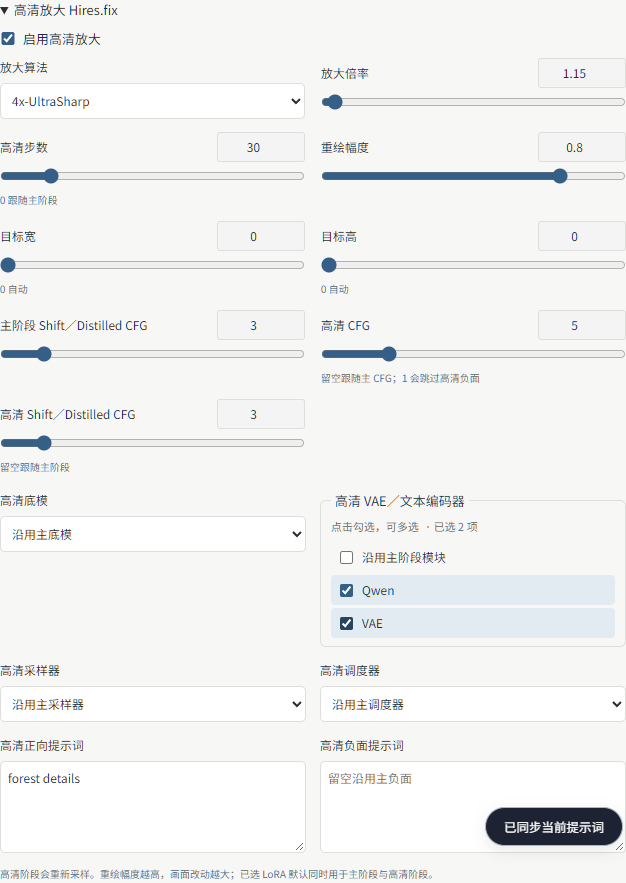
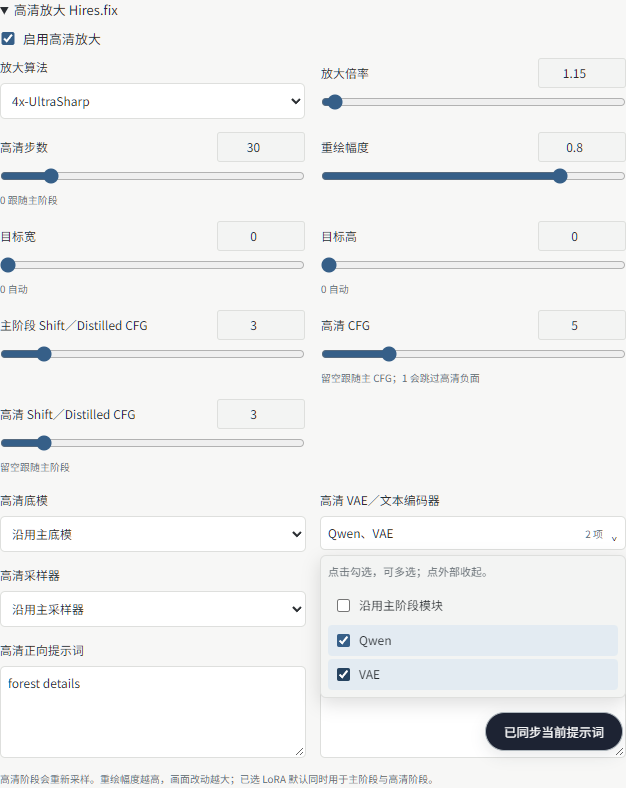
Release 0.3.4: custom model discovery and compact hires controls

diff --git a/CHANGELOG.md b/CHANGELOG.md
@@ -1,5 +1,12 @@
 # 更新记录
 
+## 0.3.4 · 2026-11-11 · 自定义 AI 接入与高清选择修复
+
+- 自定义接口新增「获取模型」，根据当前填写的接口、协议与 Key 读取模型清单。选词与视觉模型可下拉选择、输入筛选，也保留手动填写。
+- 获取模型与连接测试无需先保存；状态、失败原因和完成反馈显示在操作按钮旁。保存后保持配置面板展开，收起由用户决定。
+- 按 OpenCode 官方要求，使用软件自身名称与每个会话稳定的 `x-opencode-session`，主请求、工具及视觉请求保持关联；清空对话生成新标识，连接测试独立。Go 面向编程 Agent，使用范围以提供方当前规则和账户权限为准。
+- 高清 VAE／文本编码器改为紧凑、可收起的多选控件，与高清底模对齐；直接勾选多项无需 Ctrl，摘要显示已选模块，长名称可查看完整提示。
+
 ## 0.3.3 · 2026年11月11日
 
 - 选词规范与生图解耦：AI 选词里的 Anima、MOSS、NAI 等只负责提示词表达，不拦截其他实际生图后端，不自动切换后端、清空 LoRA 或更换工作流挂载方式。

diff --git a/README.md b/README.md
@@ -12,7 +12,11 @@
 
 用中文描述画面，让**内置 AI**结合本地标签、角色配方与绘图模型 Skill 整理提示词；也可以自己选词、调整权重、管理 LoRA，再连接本机 NeoForge、ComfyUI 或已配置的 NovelAI 服务生图。
 
-当前版本 **0.3.3**。版本号在软件的设置页面查看。本仓库提供安装包、使用手册、模型 Skill 和发布记录。
+当前版本 **0.3.4**。版本号在软件的设置页面查看。本仓库提供安装包、使用手册、模型 Skill 和发布记录。
+
+## 0.3.4 自定义 AI 接入修复
+
+自定义接口支持一键获取和筛选模型，测试直接使用尚未保存的表单，保存后保持展开。修复 OpenCode 会话路由请求头，高清底模与模块选择改为对齐、可收起的布局。具体操作见[内置 AI 指南](docs/BUILT_IN_AI.md)。
 
 ## 0.3.3 独立生图与预览修复
 

diff --git a/docs/MODELS_AND_GENERATION.md b/docs/MODELS_AND_GENERATION.md
@@ -105,3 +105,7 @@ CFG=1 时 Neo 会跳过该阶段负面提示词。重绘幅度越高，重绘改
 以下是使用本机 Neo、现有 Anima 权重、LoRA 和 4x-UltraSharp 的中立风景实测。PNG 参数确认主图 384×384、高清倍率 1.25、高清 CFG 5.5、Shift 3、12 步及 LoRA 哈希；Neo 按其尺寸对齐规则实际输出 512×512。
 
 ![本机 Neo 高清双阶段实测](../assets/screenshots/neo-hires-forest.png)
+
+## 高清模块的紧凑多选
+
+高清底模与 VAE／文本编码器并排显示。点击模块摘要展开勾选，支持直接多选；「沿用主阶段模块」与独立模块互斥。点击外部或按 Escape 收起，已选结果保留。较长名称在摘要中省略，鼠标停留可查看完整名称。

diff --git a/docs/SCREENSHOTS.md b/docs/SCREENSHOTS.md
@@ -106,3 +106,9 @@ Neo 文本编码器和 VAE 逐项勾选，保留其他选择，无需 Ctrl。
 Neo 实时预览没有可用首帧时显示等待占位；测试使用中立风景提示词和受控引擎响应。图片加载成功后才出现，不显示破图图标。
 
 ![等待首张实时预览](../assets/screenshots/preview-waiting.png)
+
+## 自定义接口模型获取（0.3.4）
+
+![自定义接口获取可用模型](../assets/screenshots/custom-model-discovery.png)
+
+展示从 OpenCode 公开接口实际读取的清单；未使用个人 Key 或调用推理。正式对话需自己的 Key，并核对提供方允许的使用范围。
